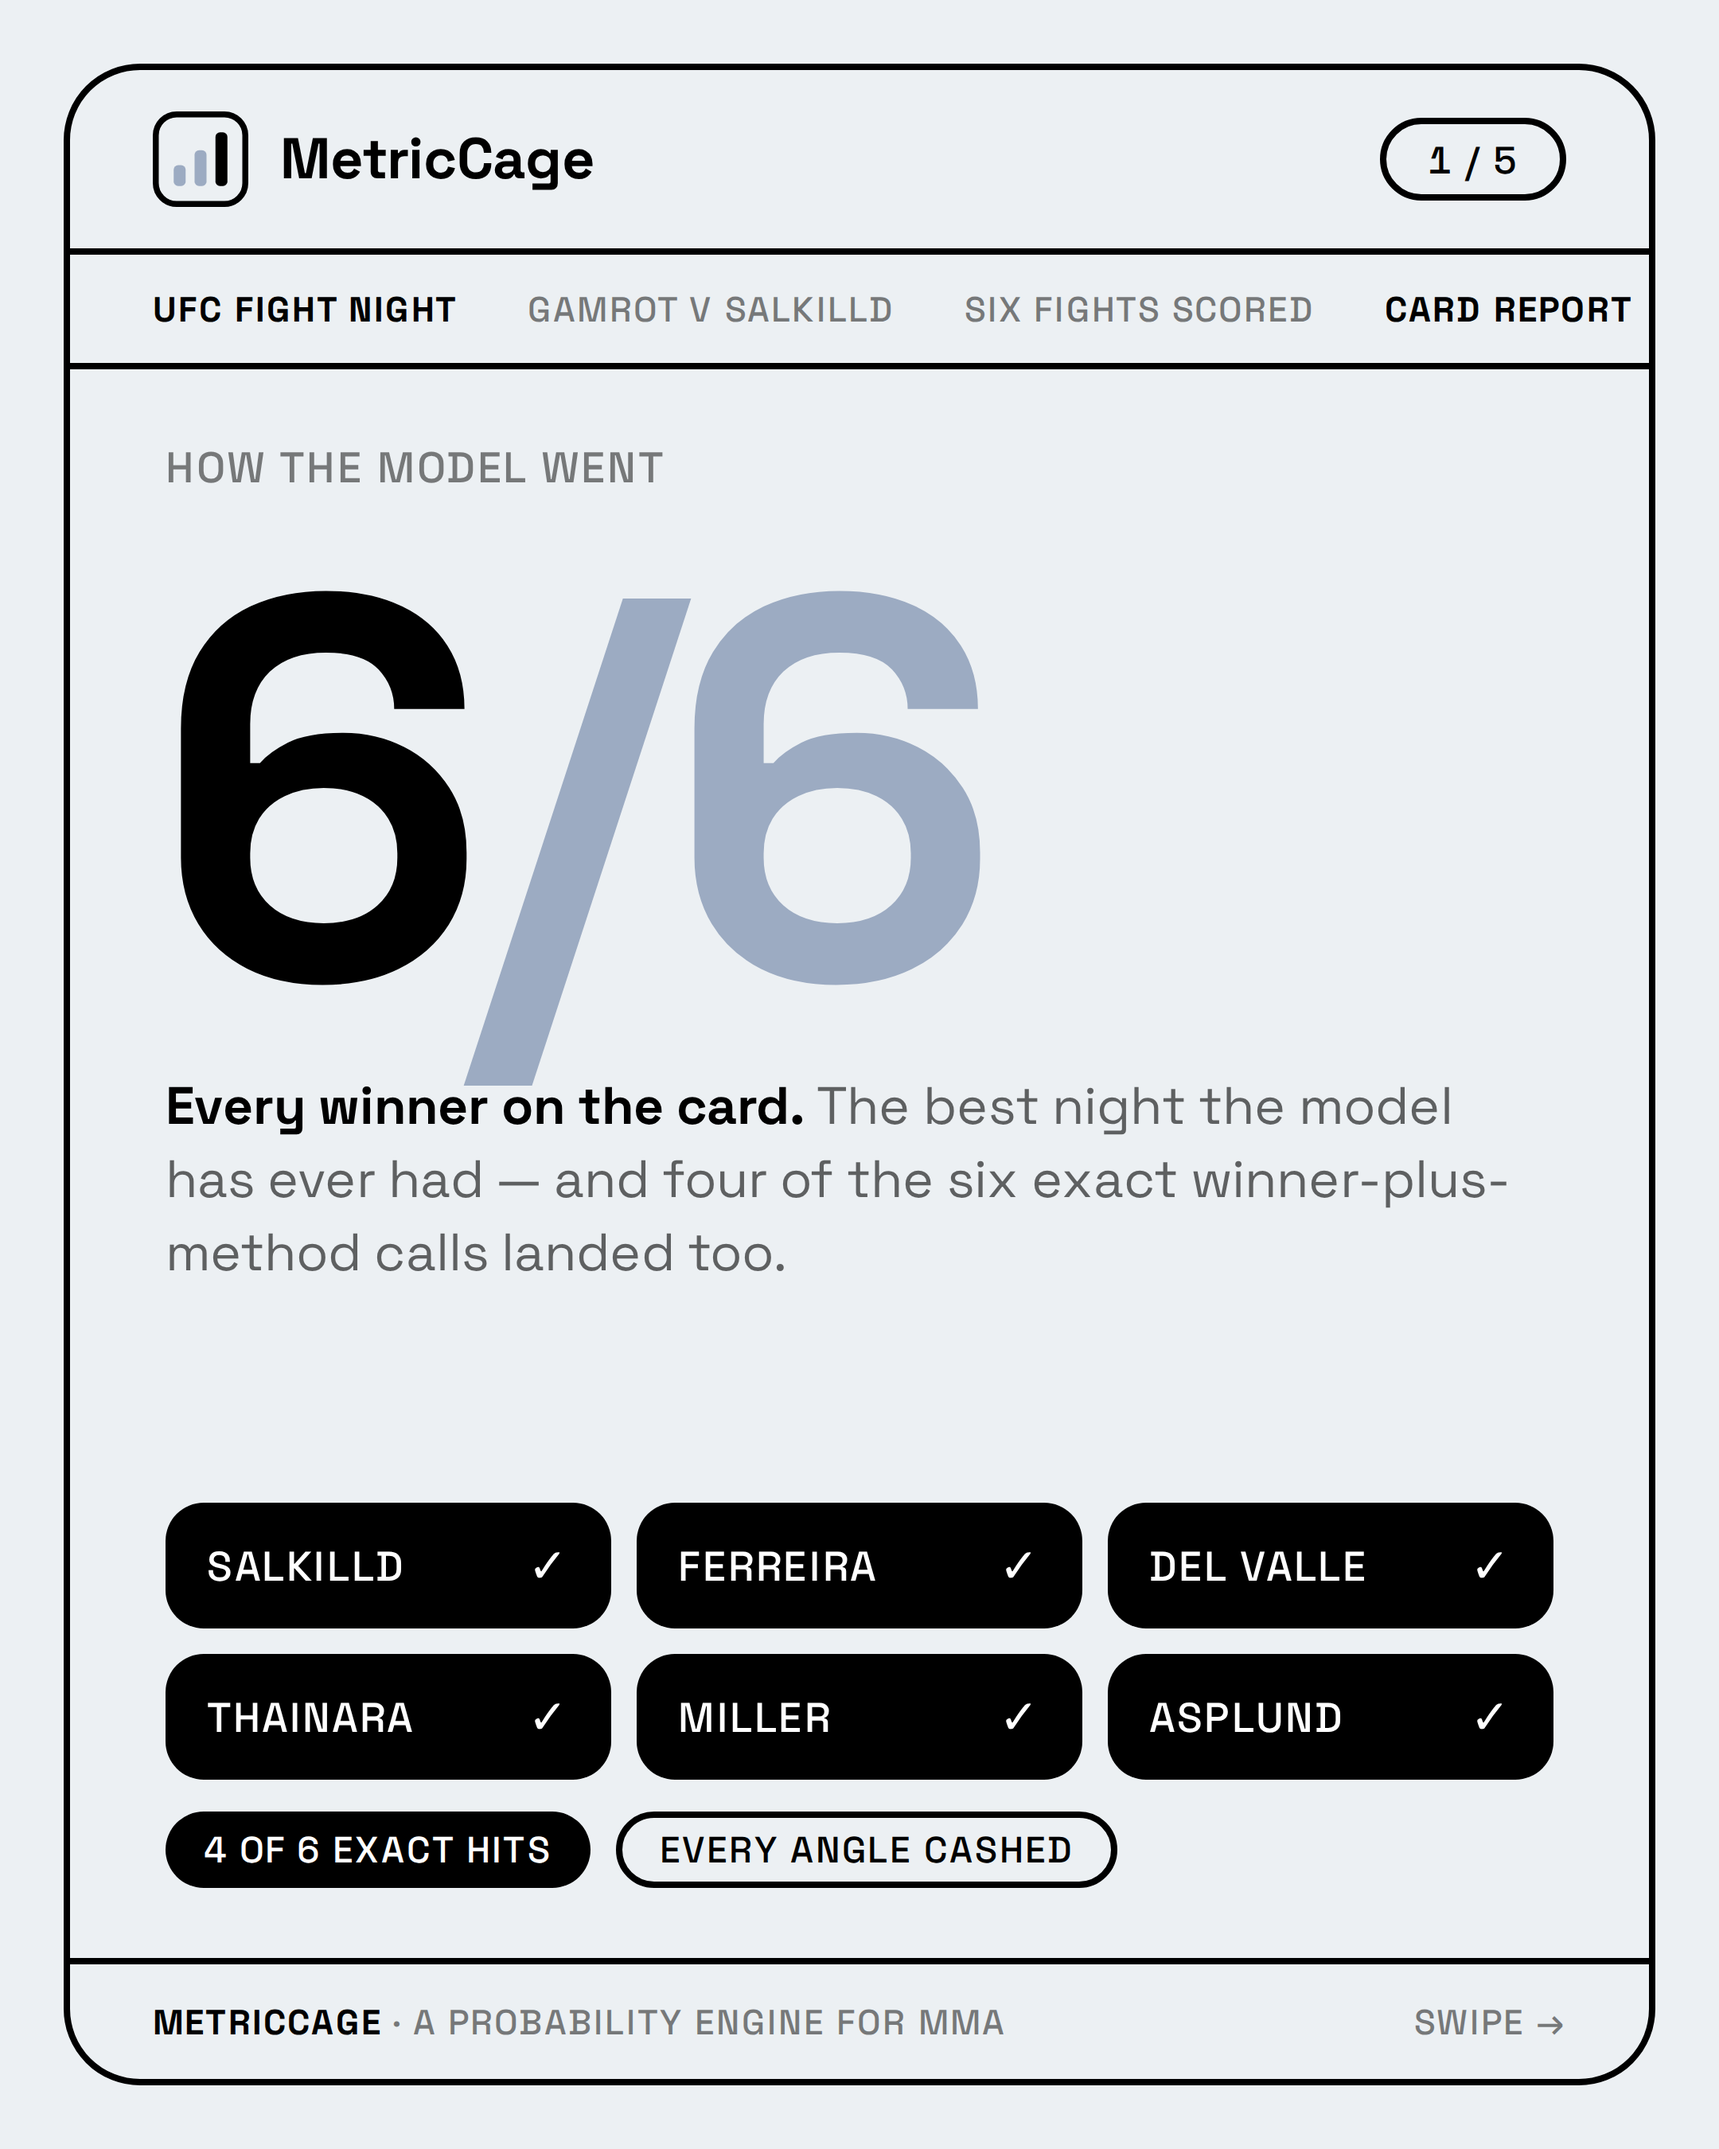
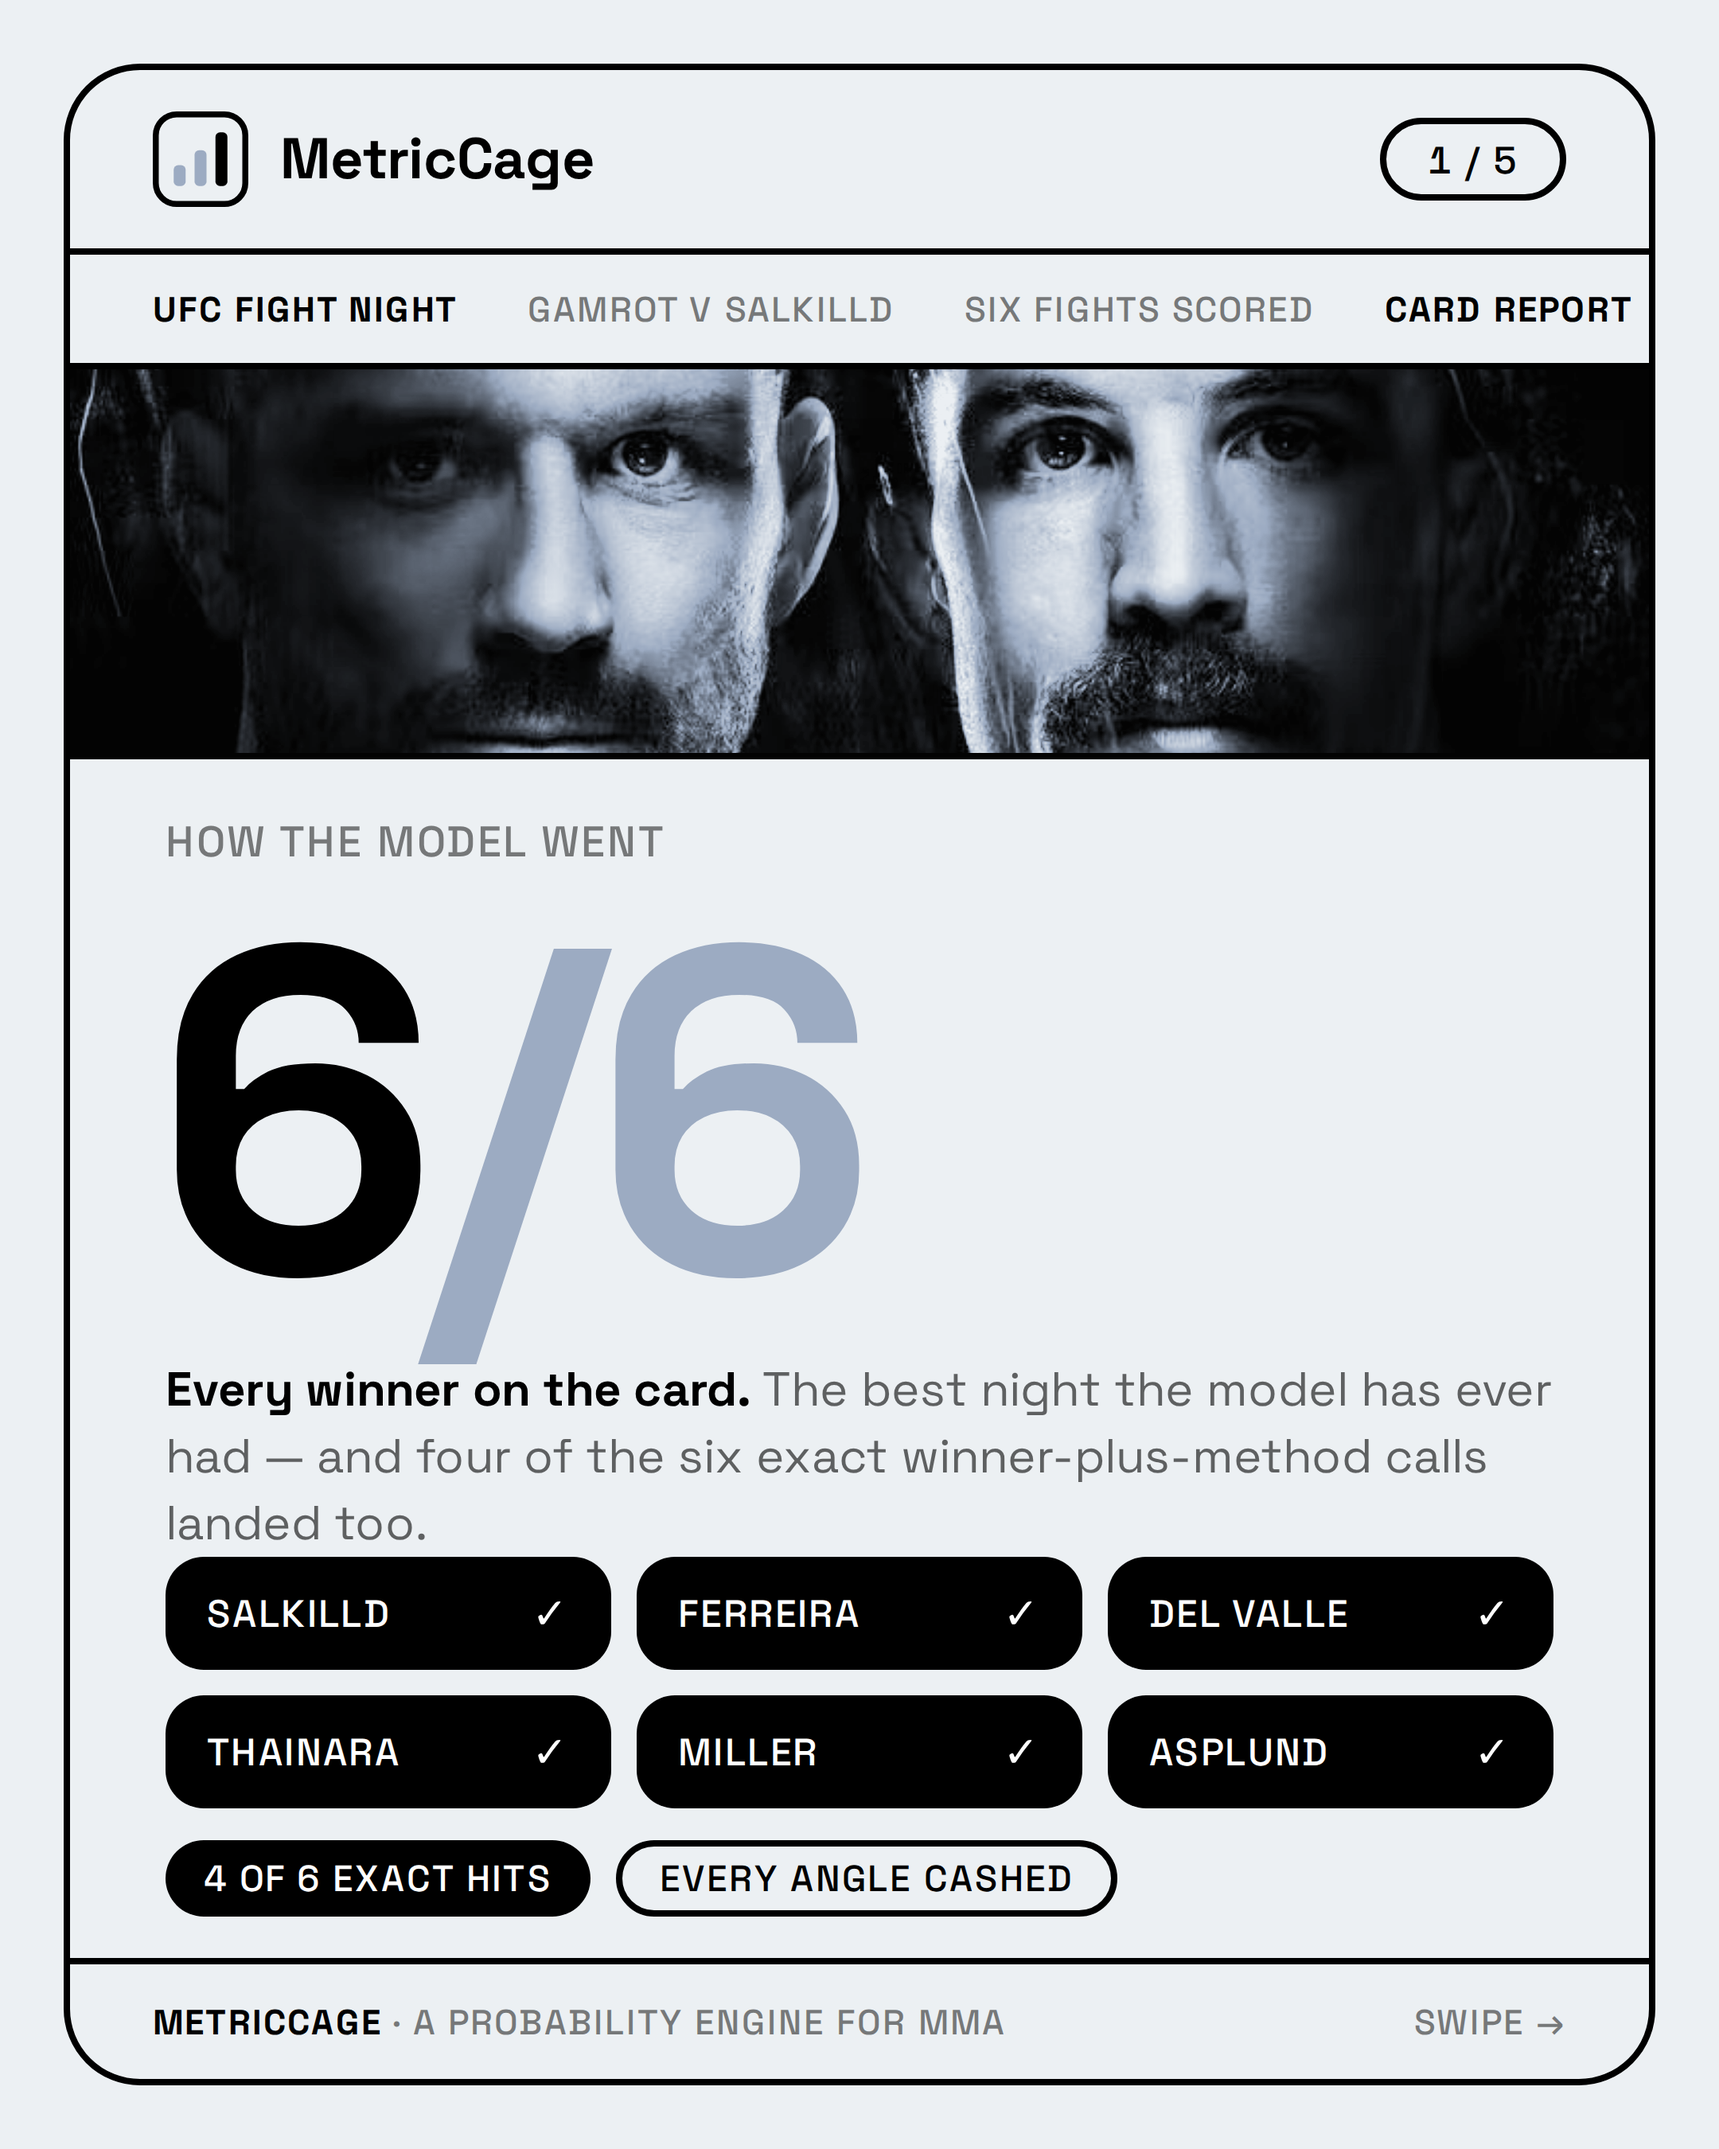
Grade fight photos into the carousel
Poster, faceoff, choke, and Ferreira shots duotoned into the paper/
slate/ink palette via an SVG tritone filter: full-bleed band on the
cover, before/after thumbs on the main-event slide, celebration thumb
on the props card.

Claude-Session: https://claude.ai/code/session_01KmTn1WhYNe9thRKmpXQw5x

Changed region(s): [[0.031, 0.1556, 0.9616, 0.9022], [0.7755, 0.4978, 0.8685, 0.56]]

diff --git a/social/gamrot-salkilld/slides.html b/social/gamrot-salkilld/slides.html
@@ -67,7 +67,7 @@ body{background:#c9ced4;font-family:"Space Grotesk",ui-sans-serif,system-ui,sans
 .eyebrow{font-size:27px;font-weight:500;letter-spacing:var(--track-wide);
   text-transform:uppercase;color:var(--ink-a50);margin-bottom:24px}
 .h1{font-size:64px;font-weight:700;letter-spacing:var(--track-tight);line-height:1.08}
-.sub{font-size:33px;line-height:1.4;color:var(--ink-a60)}
+.sub{font-size:30px;line-height:1.4;color:var(--ink-a60)}
 .sub b{color:var(--ink)}
 
 /* ---------- shared bits ---------- */
@@ -80,19 +80,29 @@ body{background:#c9ced4;font-family:"Space Grotesk",ui-sans-serif,system-ui,sans
 .wtable .tag,.angle .tag,.card .kicker .tag{height:42px;padding:0 20px;font-size:21px}
 .wtable .tag{height:36px;padding:0 16px;font-size:19px}
 #s3 .body{padding-top:34px}
+#s1 .body{padding-top:34px;padding-bottom:36px}
+#s1 .eyebrow{margin-bottom:16px}
 #s3 .eyebrow{margin-bottom:18px}
 .h1-sm{font-size:56px}
 
+/* ---------- photos — graded into the paper/slate/ink tritone ---------- */
+.ph{display:block;object-fit:cover;filter:grayscale(1) contrast(1.08) url(#papertone)}
+.ph-band{width:100%;height:245px;border-bottom:var(--border);object-position:50% 32%;
+  filter:grayscale(1) brightness(1.2) contrast(1.05) url(#papertone)}
+.row-card{display:flex;gap:26px;align-items:center}
+.cardtext{flex:1;min-width:0}
+.ph-card{border:var(--stroke) solid var(--slate);border-radius:24px;flex:none}
+
 /* =============== SLIDE 1 — cover =============== */
 .cover{justify-content:space-between}
-.hero-num{font-size:340px;font-weight:700;line-height:.95;letter-spacing:-0.03em;margin:0 0 0 -8px}
+.hero-num{font-size:290px;font-weight:700;line-height:.95;letter-spacing:-0.03em;margin:0 0 0 -8px}
 .hero-num span{color:var(--slate)}
 .cover .sub{margin-top:14px;max-width:880px}
 .cells{display:grid;grid-template-columns:1fr 1fr 1fr;gap:16px;margin-top:0}
 .cell{background:var(--ink);color:var(--white);border-radius:24px;
-  padding:20px 26px;display:flex;align-items:center;justify-content:space-between;
-  font-size:26px;font-weight:500;letter-spacing:var(--track-wide);text-transform:uppercase}
-.cell i{font-style:normal;font-weight:700;font-size:30px}
+  padding:18px 26px;display:flex;align-items:center;justify-content:space-between;
+  font-size:24px;font-weight:500;letter-spacing:var(--track-wide);text-transform:uppercase}
+.cell i{font-style:normal;font-weight:700;font-size:27px}
 .cover-chips{display:flex;gap:16px;margin-top:20px}
 
 /* =============== SLIDE 2 — main event =============== */
@@ -159,6 +169,15 @@ body{background:#c9ced4;font-family:"Space Grotesk",ui-sans-serif,system-ui,sans
 </style>
 </head>
 <body>
+<svg width="0" height="0" style="position:absolute" aria-hidden="true">
+  <filter id="papertone" color-interpolation-filters="sRGB">
+    <feComponentTransfer>
+      <feFuncR type="table" tableValues="0.015 0.612 0.925"/>
+      <feFuncG type="table" tableValues="0.015 0.671 0.941"/>
+      <feFuncB type="table" tableValues="0.015 0.761 0.953"/>
+    </feComponentTransfer>
+  </filter>
+</svg>
 
 <!-- ================= SLIDE 1 : COVER ================= -->
 <div class="slide" id="s1">
@@ -171,6 +190,7 @@ body{background:#c9ced4;font-family:"Space Grotesk",ui-sans-serif,system-ui,sans
       <span class="pagechip">1 / 5</span>
     </div>
     <div class="ticker"><span><b>UFC Fight Night</b></span><span>Gamrot v Salkilld</span><span>six fights scored</span><span><b>card report</b></span></div>
+    <img class="ph ph-band" src="photos/poster.jpg" alt="">
     <div class="body cover">
       <div>
         <p class="eyebrow">How the model went</p>
@@ -210,15 +230,21 @@ body{background:#c9ced4;font-family:"Space Grotesk",ui-sans-serif,system-ui,sans
       <p class="eyebrow">The main event</p>
       <h2 class="h1">Gamrot v Salkilld</h2>
       <div class="duo">
-        <div class="card">
-          <p class="kicker"><span>The call — before the fight</span></p>
-          <p class="big">Salkilld · 67% <small>· top outcome: submission, rounds 1–2</small></p>
-          <div class="meter"><i style="width:67%"></i></div>
-          <p class="meterlabels"><span>submission led the method tree at <b>46%</b></span><span><b>67%</b></span></p>
+        <div class="card row-card">
+          <div class="cardtext">
+            <p class="kicker"><span>The call — before the fight</span></p>
+            <p class="big">Salkilld · 67% <small>· top outcome: submission, rounds 1–2</small></p>
+            <div class="meter"><i style="width:67%"></i></div>
+            <p class="meterlabels"><span>submission led the tree at <b>46%</b></span><span><b>67%</b></span></p>
+          </div>
+          <img class="ph ph-card" src="photos/faceoff.jpg" alt="" style="width:250px;height:240px;object-position:50% 22%">
         </div>
-        <div class="card">
-          <p class="kicker"><span>The result</span><span class="tag t-hit">Exact hit</span></p>
-          <p class="big">Salkilld by submission <small>· rear-naked choke · round 1, 4:25</small></p>
+        <div class="card row-card">
+          <div class="cardtext">
+            <p class="kicker"><span>The result</span><span class="tag t-hit">Exact hit</span></p>
+            <p class="big">Salkilld by submission <small>· rear-naked choke · round 1, 4:25</small></p>
+          </div>
+          <img class="ph ph-card" src="photos/rnc.jpg" alt="" style="width:250px;height:200px;object-position:50% 10%">
         </div>
       </div>
       <div class="callout">
@@ -300,10 +326,13 @@ body{background:#c9ced4;font-family:"Space Grotesk",ui-sans-serif,system-ui,sans
           <p class="line">del Valle · Miller · Thainara</p>
           <p class="det">The three anchors all came home.</p>
         </div>
-        <div class="angle">
-          <p class="kicker"><span>Props</span><span class="tag t-hit">2 / 2</span></p>
-          <p class="line">Ferreira–Quarantillo goes the distance · 57% ✓</p>
-          <p class="line">Gamrot–Salkilld doesn't · 74% ✓</p>
+        <div class="angle row-card">
+          <div class="cardtext">
+            <p class="kicker"><span>Props</span><span class="tag t-hit">2 / 2</span></p>
+            <p class="line">Ferreira–Quarantillo to decision · 57% ✓</p>
+            <p class="line">Gamrot–Salkilld doesn't · 74% ✓</p>
+          </div>
+          <img class="ph ph-card" src="photos/ferreira.jpg" alt="" style="width:150px;height:170px;object-position:50% 8%">
         </div>
         <div class="angle">
           <p class="kicker"><span>Weight-cut overlay</span><span class="tag t-win">Right way</span></p>
